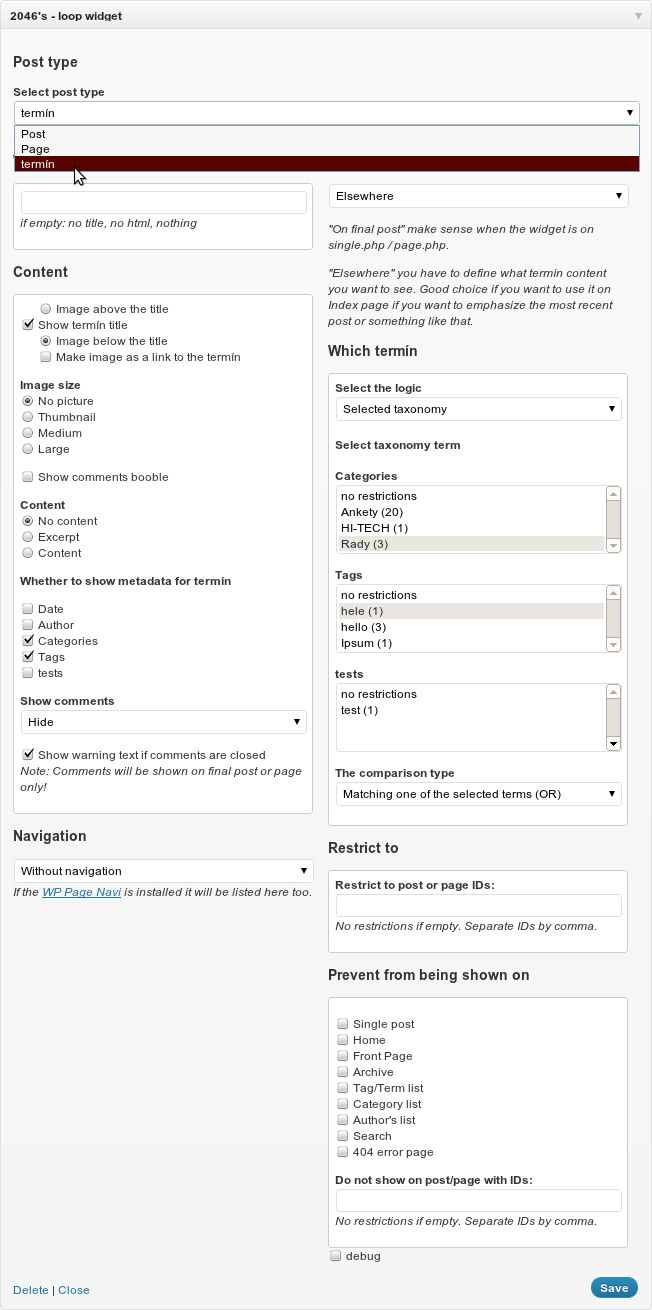
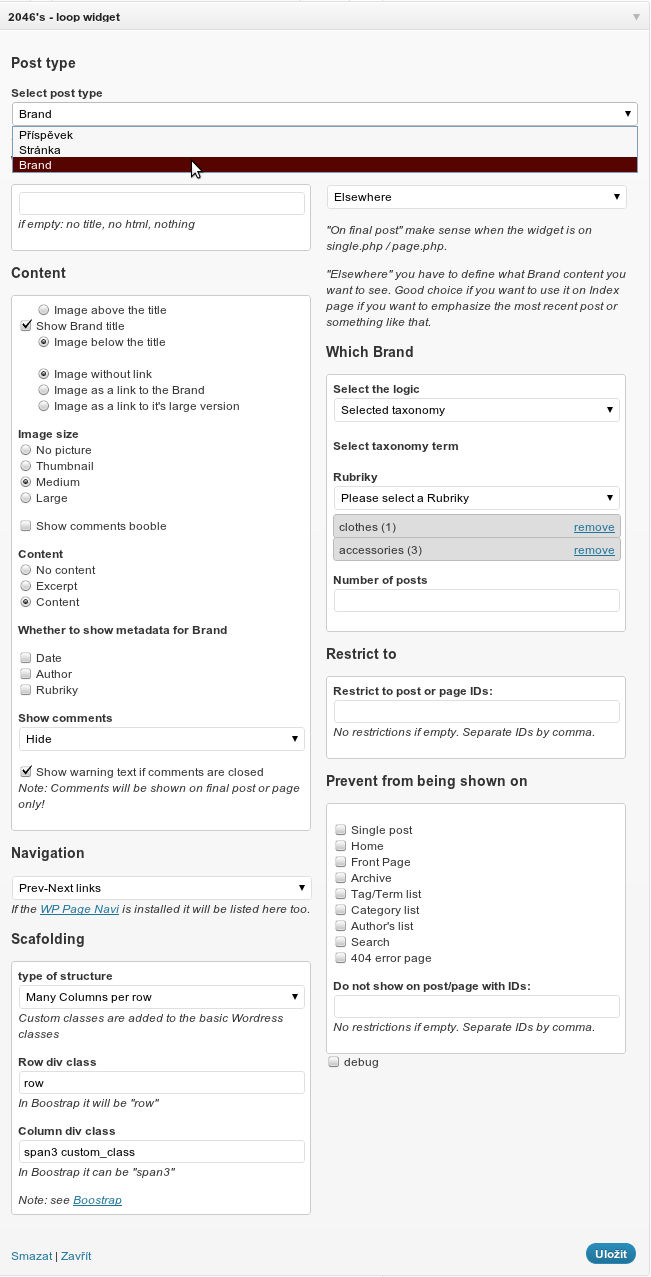
v. 0.241
git-svn-id: https://plugins.svn.wordpress.org/2046s-widget-loops/trunk@510779 b8457f37-d9ea-0310-8a92-e5e31aec5664

diff --git a/js/lw_2046_widget_ui.js b/js/lw_2046_widget_ui.js
@@ -41,7 +41,18 @@ jQuery(document).ready(function($){
 			$(parent_widget + " p.pw_against_taxonomy").hide();
 		};
 	};
-
+	// show hide scafolding settings
+	var scafoldig_select = function(This){
+		parent_widget = 'div#' + $(This).parents('div.pw_2046_lw').attr('id');
+		if($(parent_widget + " select.scafolding_selector").attr('value') == 0){
+			jQuery(parent_widget + " p.pw_scafolding_column").hide();
+			jQuery(parent_widget + " p.pw_scafolding_row").hide();
+		}else{
+			jQuery(parent_widget + " p.pw_scafolding_column").show();
+			jQuery(parent_widget + " p.pw_scafolding_row").show();
+		}
+	}
+	
 	var location_select = function(This){
 		if($(This).attr('value') == 0){
 			parent_widget = 'div#' + $(This).parents('div.pw_2046_lw').attr('id');
@@ -70,6 +81,8 @@ jQuery(document).ready(function($){
 		//console.log('just dropped in');
 		$('#widgets-right select.location_selector').each( function() {
 			location_select(this);
+			// scafolding behavior
+			scafoldig_select(this);
 		});
 	});
 	
@@ -81,7 +94,10 @@ jQuery(document).ready(function($){
 	
 	$('#widgets-right select.location_selector').each( function() {
 		location_select(this);
+		// scafolding behavior
+		scafoldig_select(this);
 	});
+	
 	
 	//
 	// react on ajax sucess (on save)
@@ -90,6 +106,8 @@ jQuery(document).ready(function($){
 		$('p.lw_type_change_note').hide();
 		$('#widgets-right select.location_selector').each( function() {
 			location_select(this);
+			// scafolding behavior
+			scafoldig_select(this);
 		});
 		
 	});
@@ -145,5 +163,12 @@ jQuery(document).ready(function($){
 		parent_widget = 'div#' + $(this).parents('div.pw_2046_lw').attr('id');
 		// show various inputs
 		lw_settings(parent_widget);
+	});
+	// scafolding select change
+	$(document).delegate('select.scafolding_selector', 'change', function(ev) {
+		// define the parent widget always, because you never know if there are not more same widgets
+		parent_widget = 'div#' + $(this).parents('div.pw_2046_lw').attr('id');
+		// scafolding behavior
+		scafoldig_select(this);
 	});
 });

diff --git a/2046s_loop_widgets.php b/2046s_loop_widgets.php
@@ -3,7 +3,7 @@
  * Plugin name: 2046's widget loops
  * Plugin URI: http://wordpress.org/extend/plugins/2046s-widget-loops/
  * Description: 2046's loop widgets boost you website prototyping.
- * Version: 0.24
+ * Version: 0.241
  * Author: 2046
  * Author URI: http://2046.cz
  *
@@ -57,13 +57,16 @@ function w2046_main_loop_load_widgets() {
 			'the_post_title' => __('on', 'w_2046_posts'), // false, true
 			'image_position' => __(1, 'w_2046_posts'), // 0,1
 			'image_size' => __(2, 'w_2046_posts'), // none, thumbnail, large
-			'image_with_link' => __('', 'w_2046_posts'), // false, true
+			'image_with_link' => __(0, 'w_2046_posts'), // false, true
 			'with_excerpt' => __(2, 'w_2046_posts'), // ids, category, from the sa
 			'postmeta' => __(array(''), 'w_2046_posts'), // Date, author, categories, tags
 			'comments_booble' => __('', 'w_2046_posts'), // false, true
 			'comments_selector' => __('1', 'w_2046_posts'), // true, false
 			'comments_comments_closed_info' => __('on', 'w_2046_posts'), // true, false
 			'navigation' => __('', 'w_2046_posts'), // true, false
+			'scafolding_selector' => __('0', 'w_2046_posts'), //
+			'scafolding_row' => __('', 'w_2046_posts'), // 
+			'scafolding_column' => __('', 'w_2046_posts'), // 
 			'location_selector' => __(true, 'w_2046_posts'), // single, id, most recent
 			'restrict_to_ids' => __('', 'w_2046_posts'), // numbs
 			'taxonomy' => __(array(''), 'w_2046_posts'), // numbs
@@ -139,7 +142,10 @@ function w2046_main_loop_load_widgets() {
 						&nbsp;&nbsp;&nbsp;&nbsp;&nbsp;&nbsp;<input type="radio" name="<?php echo $this->get_field_name( 'image_position' ); ?>" value="0" <?php if ($instance['image_position'] == 0) echo 'checked="checked"'; ?>> Image above the title<br />
 						<input type="checkbox" name="<?php echo $this->get_field_name( 'the_post_title' ); ?>" <?php if ($instance['the_post_title'] == 'on'){ echo 'checked="checked"'; } ?> /> Show <?php echo $type_title; ?> title<br />
 						&nbsp;&nbsp;&nbsp;&nbsp;&nbsp;&nbsp;<input type="radio" name="<?php echo $this->get_field_name( 'image_position' ); ?>" value="1" <?php if ($instance['image_position'] == 1) echo 'checked="checked"'; ?>> Image below the title<br />
-						&nbsp;&nbsp;&nbsp;&nbsp;&nbsp;&nbsp;<input type="checkbox" name="<?php echo $this->get_field_name( 'image_with_link' ); ?>" <?php if ($instance['image_with_link'] == 'on'){ echo 'checked="checked"'; } ?> /> Make image as a link to the <?php echo $type_title; ?>
+						<br />
+						&nbsp;&nbsp;&nbsp;&nbsp;&nbsp;&nbsp;<input type="radio" name="<?php echo $this->get_field_name( 'image_with_link' ); ?>" value="0" <?php if ($instance['image_with_link'] == '0'){ echo 'checked="checked"'; } ?> /> Image without link<br />
+						&nbsp;&nbsp;&nbsp;&nbsp;&nbsp;&nbsp;<input type="radio" name="<?php echo $this->get_field_name( 'image_with_link' ); ?>" value="1" <?php if ($instance['image_with_link'] == '1'){ echo 'checked="checked"'; } ?> /> Image as a link to the <?php echo $type_title; ?><br />
+						&nbsp;&nbsp;&nbsp;&nbsp;&nbsp;&nbsp;<input type="radio" name="<?php echo $this->get_field_name( 'image_with_link' ); ?>" value="2" <?php if ($instance['image_with_link'] == '2'){ echo 'checked="checked"'; } ?> /> Image as a link to it's large version
 					</p>
 					<strong>Image size</strong>
 					<p class="pw_image_size">
@@ -224,6 +230,29 @@ function w2046_main_loop_load_widgets() {
 						<em>If the <a href="http://wordpress.org/extend/plugins/wp-pagenavi/" target="_blank">WP Page Navi</a> is installed it will be listed here too.</em>
 					<?php } ?>
 				</p>
+				<h3>Scafolding</h3>
+				<div class="pw_holder">
+					<strong>type of structure</strong>
+					<p class="pw_scafolding_selector">
+						<select name="<?php echo $this->get_field_name( 'scafolding_selector' ); ?>" class="scafolding_selector" >
+							<?php echo '<option '; if($instance['scafolding_selector'] == 0){echo 'selected="selected"';} echo' value="0" >Basic Wordpress classes</option>'; ?>
+							<?php echo '<option '; if($instance['scafolding_selector'] == 1){echo 'selected="selected"';} echo' value="1" >One column per row</option>'; ?>
+							<?php echo '<option '; if($instance['scafolding_selector'] == 2){echo 'selected="selected"';} echo' value="2" >Many Columns per row</option>'; ?>'; ?>
+						</select>
+						<em>Custom classes are added to the basic Wordress classes</em>
+					</p>
+					<p class="pw_scafolding_row">
+						<strong>Row div class</strong><br />
+						<input type="text" name="<?php echo $this->get_field_name( 'scafolding_row' ); ?>" value="<?php echo $instance['scafolding_row'] ?>"/>
+						<em>In Boostrap it will be "row"</em>
+					</p>
+					<p class="pw_scafolding_column">
+						<strong>Column div class</strong><br />
+						<input type="text" name="<?php echo $this->get_field_name( 'scafolding_column' ); ?>" value="<?php echo $instance['scafolding_column'] ?>"/>
+						<em>In Boostrap it can be "span3"</em>	
+					</p>
+					<em>Note: see <a href="http://twitter.github.com/bootstrap/scaffolding.html" target="_blank">Boostrap</a></em>
+				</div>
 			</div>
 			<div class="lw_2046_right">
 				<h3>Where this loop will be shown & what</h3>
@@ -297,7 +326,7 @@ function w2046_main_loop_load_widgets() {
 									echo '<strong>'.$each_taxonomy_label.'</strong>';
 									// select id problem
 									echo '<select multiple="multiple" size="5" name="'.$this->get_field_name( 'taxonomy' ).'['.$each_taxonomy_name.'][]" id="'. $this->get_field_id( 'taxonomy' ).'" class="lw_multiple_select" title="Please select a '.$each_taxonomy_label.'">';
-										$i = 0;
+										//$i = 0;
 										foreach($terms as $term){
 											//if($i == 0){echo '<option value="">no restrictions</option>';};
 											echo '<option ';
@@ -305,7 +334,7 @@ function w2046_main_loop_load_widgets() {
 												if(in_array($term->term_id, $instance['taxonomy'][$each_taxonomy_name])){echo 'selected="selected"';}
 											}
 											echo ' value="'.$term->term_id.'">'.$term->name.' ('.$term->count .')</option>';
-											$i++;
+											//$i++;
 										}
 									echo '</select>
 								</p>';
@@ -411,6 +440,9 @@ function w2046_main_loop_load_widgets() {
 			$instance['comments_selector'] = strip_tags( $new_instance['comments_selector'] );
 			$instance['comments_comments_closed_info'] = strip_tags( $new_instance['comments_comments_closed_info'] );
 			$instance['navigation'] = strip_tags( $new_instance['navigation'] );
+			$instance['scafolding_selector'] = strip_tags( $new_instance['scafolding_selector'] );
+			$instance['scafolding_row'] = strip_tags( $new_instance['scafolding_row'] );
+			$instance['scafolding_column'] = strip_tags( $new_instance['scafolding_column'] );
 			$instance['location_selector'] = strip_tags( $new_instance['location_selector'] );
 			$instance['page_selector'] = strip_tags( $new_instance['page_selector'] );
 			$instance['parent_page_id'] = strip_tags( $new_instance['parent_page_id'] );
@@ -459,7 +491,11 @@ function w2046_main_loop_load_widgets() {
 		$stick_on_template_types = $instance['stick_on_template_types']; 
 		$disallow_on_ids = $instance['disallow_on_ids']; 
 		$navigation = $instance['navigation'];
-		$debug = $instance['debug'];  
+		$scafolding_selector = $instance['scafolding_selector'];
+		$scafolding_column = $instance['scafolding_column'];
+		$scafolding_row  = $instance['scafolding_row'];
+		$debug = $instance['debug'];
+		
 		// reset the previous loops
 		// just to be sure they wont manipulate the curent query
 		wp_reset_postdata();
@@ -524,6 +560,13 @@ function w2046_main_loop_load_widgets() {
 						}
 						// merge tax query with the main array
 						$args = array_merge( $args, $args_taxonomies);
+					}else{
+						$args_taxonomies = array(
+							'posts_per_page' => $posts_number
+							);
+						// merge tax query with the main array
+						$args = array_merge( $args, $args_taxonomies);
+					
 					}
 				}
 				// From the same taxonomy as the current page
@@ -564,11 +607,16 @@ function w2046_main_loop_load_widgets() {
 			else{
 				// 0 Select Page(s) by IDs
 				if($page_selector == 0){
+					$post_id_clean = ereg_replace(" ", "", $post_id);
+					$post_ids_array = explode(',', $post_id_clean);
 					$args_ids = array(
-						'post__in' => $post_id,
+						'post__in' => $post_ids_array
 			 		);
 			 		$args = array_merge( $args , $args_ids);
-			 		echo 'page-s by id';
+					/*$args_ids = array(
+						'post__in' => $post_id,
+			 		);
+			 		$args = array_merge( $args , $args_ids);*/
 		 		}
 				// 1 Children pages of Page parent
 				elseif($page_selector == 1){
@@ -754,32 +802,30 @@ function w2046_main_loop_load_widgets() {
 				echo '<h4>'.$the_widget_title.'</h4>';
 				
 			}
+			// scafolding custom classes
+			$custom_class = '';
+			if ($scafolding_selector == 1){
+				$custom_class = $scafolding_row;
+			}
+			elseif($scafolding_selector == 2){
+				echo '<div class="'.$scafolding_row.'">';
+				$custom_class = $scafolding_column;
+			}
+			
 			// The Loop
 			while ( $the_query->have_posts() ) : $the_query->the_post();
+				
 				echo '<div ';
-				post_class();
+				post_class($custom_class);
 				echo '>';
+					
+					// scafolding column
+					if ($scafolding_selector == 1){
+						echo '<div class="'.$scafolding_column.'">';
+					}
 					// if user want the image here 
-					if ( has_post_thumbnail() && $image_position == 0) { // check if the post has a Post Thumbnail assigned to it.
-						if ($image_with_link == 'on'){
-							echo '<a href="'. get_permalink() . '" title="'.get_the_title().'">';
-						}
-							// define thumbnail atributes
-							$default_attr = array(
-								'title'	=> trim(strip_tags( $the_query->post->post_title )),
-							);
-							if($image_size == 1){
-								the_post_thumbnail('thumbnail', $default_attr);
-							}
-							if($image_size == 2){
-									the_post_thumbnail('medium', $default_attr);
-							}
-							elseif($image_size == 3){
-								the_post_thumbnail('large', $default_attr);
-							}
-						if ($image_with_link == 'on'){
-							echo '</a>';
-						}
+					if ( has_post_thumbnail() && ($image_position == 0)) { // check if the post has a Post Thumbnail assigned to it.
+						echo f_2046_build_image($the_query->post, $image_with_link, $image_size);
 					} 
 					// if user want to see post title
 					if($the_post_title == 'on'){
@@ -798,7 +844,7 @@ function w2046_main_loop_load_widgets() {
 								the_title();
 							echo '</a>';
 								if(is_user_logged_in()){
-								edit_post_link('edit', '', ' <small class="lw_2046_pID">'.$post->ID.'</small>');
+								edit_post_link('edit', '', ' <small class="lw_2046_pID">'.$the_query->post->ID.'</small>');
 							}
 						echo '</h2>';
 					}
@@ -812,25 +858,7 @@ function w2046_main_loop_load_widgets() {
 					}
 					// if user wants post thumbnail after the title
 					if ( has_post_thumbnail() && $image_position == 1) { // check if the post has a Post Thumbnail assigned to it.
-						if ($image_with_link == 'on'){
-							echo '<a href="'. get_permalink() . '" title="'.get_the_title().'">';
-						}
-							// define thumbnail atributes
-							$default_attr = array(
-								'title'	=> trim(strip_tags( $the_query->post->post_title )),
-							);
-							if($image_size == 1){
-								the_post_thumbnail('thumbnail', $default_attr);
-							}
-							if($image_size == 2){
-									the_post_thumbnail('medium', $default_attr);
-							}
-							elseif($image_size == 3){
-								the_post_thumbnail('large', $default_attr);
-							}
-						if ($image_with_link == 'on'){
-							echo '</a>';
-						}
+						//echo f_2046_build_image($the_query->post, $image_with_link, $image_size);
 					} 
 					// if the user want the content
 					if($with_excerpt == '1'){
@@ -894,8 +922,16 @@ function w2046_main_loop_load_widgets() {
 							if($the_query->post->comment_status == "open"){comments_template( '', true );}
 						}
 					}
+					// scafolding column
+					if ($scafolding_selector == 1){
+						echo '</div>';
+					}
 				echo '</div>';
 			endwhile;
+			// scafolding
+			if($scafolding_selector == 2){
+				echo '</div>';
+			}
 			// Create navigation
 			if($navigation == 2){
 				echo '<div class="navigation">';
@@ -916,7 +952,42 @@ function w2046_main_loop_load_widgets() {
 	}
 
 }
-
+// build image html
+function f_2046_build_image($post_, $image_with_link, $image_size) {
+	//var_dump($post_);
+	$post_thumbnail_id = get_post_thumbnail_id( $post_->ID );
+	$output = '';
+	// make the image link to the post/page
+	if ($image_with_link == 1){
+		$output .= '<a href="'. get_permalink($post_->ID) . '" title="'.get_the_title($post_->ID).'" class="page_link img_link">';
+	}
+	// make the image link to it's large version
+	if ($image_with_link == 2){
+		$image_large_src = wp_get_attachment_image_src( $post_thumbnail_id, 'large');
+		// set links to large image and image's title
+		$output .= '<a href="'. $image_large_src[0] . '" class="image_link img_link">';
+	}
+		// define thumbnail atributes
+		$default_attr = array(
+			'title'	=> trim(strip_tags( $post_->post_title )),
+		);
+		if($image_size == 1){
+			$output .= wp_get_attachment_image( $post_thumbnail_id, 'thumbnail'); //get_the_post_thumbnail('thumbnail', $default_attr);
+		}
+		if($image_size == 2){
+			$output .= wp_get_attachment_image( $post_thumbnail_id, 'medium'); //get_the_post_thumbnail('medium', $default_attr);
+		}
+		elseif($image_size == 3){
+			$output .= wp_get_attachment_image( $post_thumbnail_id, 'large'); //get_the_post_thumbnail('large', $default_attr);
+		}
+	
+	if ($image_with_link > 0){
+		$output .= '</a>';
+	}
+	
+	return $output;
+	
+}
 // add WP featured image support
 if ( function_exists( 'add_theme_support' ) ) { 
 	add_theme_support( 'post-thumbnails' ); 
